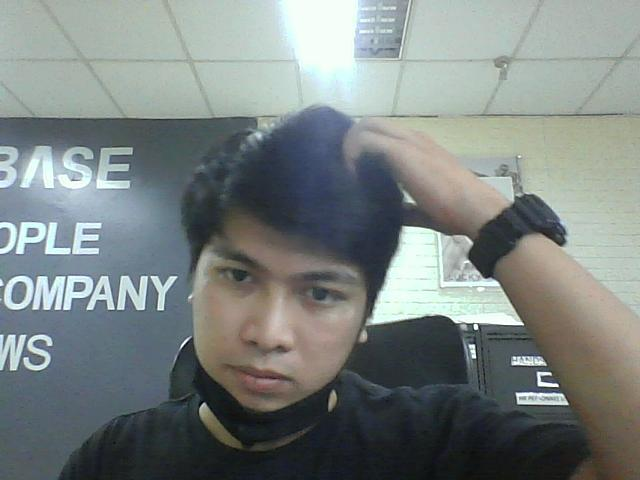
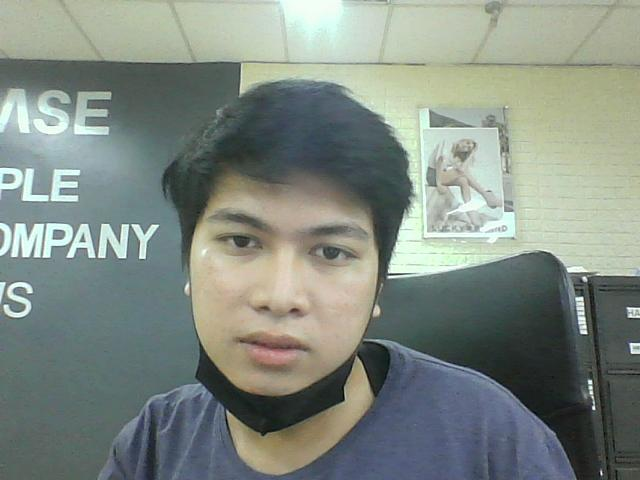
added-offset-orientations

diff --git a/autoMeasure.py b/autoMeasure.py
@@ -64,15 +64,15 @@ selected_view = tk.StringVar()
 sizes = ('XS', 'S', 'M','L', 'XL', 'XXL')
 selected_sizes = tk.StringVar()
 
-
 def proceed_clicked():
+
     global prevImg
     _, frame = cap.read()
     cv2image = cv.cvtColor(frame, cv.COLOR_BGR2RGB)
     prevImg = Image.fromarray(cv2image)
     ImageTk.PhotoImage(image=prevImg)
     if (len(sys.argv) < 2):
-        filepath = "Result.jpg"
+        filepath = "result.jpg"
     else:
         filepath = sys.argv[1]
 
@@ -94,13 +94,12 @@ def proceed_clicked():
     print(pomIDs)
     
 
-    imageToBeInspected = 'calresult\\imageCap.jpg'    #acting as camera
+    imageToBeInspected = '7M71906M.jpg'    #acting as camera
     # pomID = '7M71906MFRONTLENGTHFROMHPS'   # change later for stylenum while loop
     
     for poms in pomIDs[1:]:
 
         try:
-            
             cell = SamplePOMSheet.find(poms)
             cell2 = styleDtlSheet.find(poms)
             
@@ -115,9 +114,12 @@ def proceed_clicked():
             styleName = SamplePOMSheet.cell(pomID1,3).value
             output1 = 'subImages\\'+styleName+'\subImg1\\'+pomUID+'.JPG'
             output2 = 'subImages\\'+styleName+'\subImg2\\'+pomUID+'.JPG'
+            # output1 = 'subImages\\'+styleName+'\subImg1\\sub1.jpg'
+            # output2 = 'subImages\\'+styleName+'\subImg2\\sub2.jpg'
+
             print(pomOffset)
             pomIndex = 0
-            pixelToInch = 16 #camera height - 39 inches to 40
+            pixelToInch = float(styleDtlSheet.cell(2,9).value) #camera height - 39 inches to 40
             resultD = []
 
             # for pom in poms:
@@ -158,8 +160,10 @@ def proceed_clicked():
             subImg1pom = (top_left[0] + pomOffset[pomIndex][0], top_left[1] + pomOffset[pomIndex][1])
             
             subImg2pom = (top_left2[0] + pomOffset[pomIndex][2], top_left2[1] + pomOffset[pomIndex][3])
+
+            orientt = int(SamplePOMSheet.cell(pomID1,23).value)
             
-            resultD.append((subImg2pom[1]+subImg1pom[1])/pixelToInch)
+            resultD.append((subImg2pom[orientt]+subImg1pom[orientt])/pixelToInch)
 
             # Return True
             print(pomUID+":",round(resultD[pomIndex],2),"inches") # pom end
@@ -169,7 +173,7 @@ def proceed_clicked():
             window.update_idletasks()
             cv.rectangle(img,subImg1pom, subImg2pom, 255, 2)    
             cv.putText(img, str(round(resultD[pomIndex],2)) , (np.add(subImg2pom,[0,250])), cv.FONT_HERSHEY_SIMPLEX, 0.4, (36,255,12), 2, -1, )
-            time.sleep(2.3)
+            time.sleep(2.6)
         
         except NameError as e:
             print(e)
@@ -237,59 +241,17 @@ view_entry['values'] = views
 view_entry['state'] = 'readonly'  # normal
 view_entry.pack(fill='x', expand=False)
 
-#camera scrollbar
-camscr_label = ttk.Label(window, text="Camera Zoom:")
-camscr_label.pack(fill='x', expand=False)
-
-camscr_entry = ttk.Scale(window,command = "")
-camscr_entry.pack(fill='x', expand=False)
-
-#camera Positive X
-camX_label = ttk.Label(window, text="MoveLeft:")
-camX_label.pack(fill='x', expand=False)
-
-camX_entry = ttk.Scale(window,command = "")
-camX_entry.pack(fill='x', expand=False)
-
-#camera Positive X
-camXX_label = ttk.Label(window, text="MoveRight:")
-camXX_label.pack(fill='x', expand=False)
-
-camXX_entry = ttk.Scale(window,command = "")
-camXX_entry.pack(fill='x', expand=False)
-
-#camera Positive X
-camY_label = ttk.Label(window, text="MoveUp:")
-camY_label.pack(fill='x', expand=False)
-
-camY_entry = ttk.Scale(window,command = "")
-camY_entry.pack(fill='x', expand=False)
-
-#camera Positive X
-camYY_label = ttk.Label(window, text="MoveDown:")
-camYY_label.pack(fill='x', expand=False)
-
-camYY_entry = ttk.Scale(window,command = "")
-camYY_entry.pack(fill='x', expand=False)
-
 # login button
-proceed_button = ttk.Button(window, text="Get POM", command=proceed_clicked)
+proceed_button = ttk.Button(window, text="Detect", command=proceed_clicked)
 proceed_button.pack(fill='x', expand=False)
 
-# login button
-templCap_button = ttk.Button(window, text="Capture Templates", command="")
-templCap_button.pack(fill='x', expand=False)
-
-# login button
-clear_button = ttk.Button(window, text="Clear", command=clear_clicked)
+# reset button
+clear_button = ttk.Button(window, text="Reset", command=clear_clicked)
 clear_button.pack(fill='x', expand=False)
-
 
 text = StringVar()
 
 taskLabel = Label(window,textvariable=text).pack(fill='x', expand=False)
-
-
 
 show_frame()  #Display 2
 window.mainloop()  #Starts GUI

diff --git a/test.py b/test.py
@@ -1,0 +1,41 @@
+import cv2
+
+def show_webcam(mirror=False):
+    scale=10
+
+    cam = cv2.VideoCapture(0)
+    while True:
+        ret_val, image = cam.read()
+        if mirror: 
+            image = cv2.flip(image, 1)
+
+        #get the webcam size
+        height, width, channels = image.shape
+
+        #prepare the crop
+        centerX,centerY=int(height/2),int(width/2)
+        radiusX,radiusY= int(scale*height/100),int(scale*width/100)
+
+        minX,maxX=centerX-radiusX,centerX+radiusX
+        minY,maxY=centerY-radiusY,centerY+radiusY
+
+        cropped = image[minX:maxX, minY:maxY]
+        resized_cropped = cv2.resize(cropped, (width, height)) 
+
+        cv2.imshow('my webcam', resized_cropped)
+        if cv2.waitKey(1) == 27: 
+            break  # esc to quit
+        #add + or - 5 % to zoom
+        if cv2.waitKey(1) == 0: 
+            scale += 5  # +5
+
+        if cv2.waitKey(1) == 1: 
+            scale = 5  # +5
+
+    cv2.destroyAllWindows()
+
+def main():
+    show_webcam(mirror=True)
+
+if __name__ == '__main__':
+    main()
